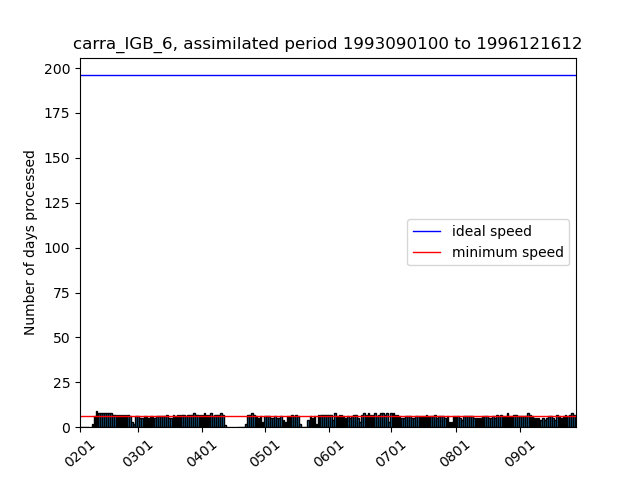
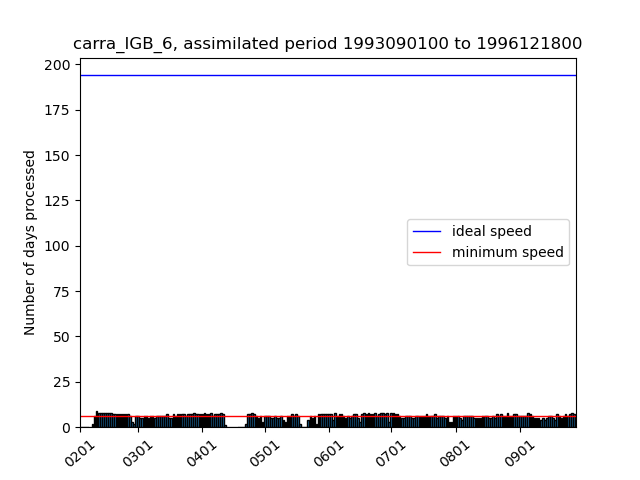
update repo

diff --git a/current_state_sims.html b/current_state_sims.html
@@ -2,18 +2,18 @@
 <h1>Estimated completion dates and simulation speeds</h1>
 <p>Stream (production) completion date based on 30d (7d) moving avg speed</p>
 <p><a href="https://docs.google.com/document/d/1zDKAxuEXYnWWYzT3SZnZwY5WW8nodUMeYRjAGz46coc/edit#">Details of the calculation of the completion dates</a></p>
-<p>Last update: 2021/09/29 00:41:31 UTC</p>
+<p>Last update: 2021/09/29 06:47:08 UTC</p>
 <p>Total progress CARRA: 99.33% <a href="https://hirlam.org/portal/CARRA/Progress/GanntChart_CARRA.html"> (see detailed progress meter in Gantt chart) </a></p>
 <p>Total progress PANARCTIC: 91.67% </p>
 <p><a href="https://hirlam.org/portal/CARRA/Progress/waiting_times.html"> Queue waiting times for all streams</a></p>
 <p><a href="https://hirlam.org/portal/CARRA/Progress/mars_status.html"> MARS archive throughput </a></p>
 <html><table border="1"><tr><th>expId</th><th>Current assimilated date</th><th>End date of stream </th><th> Completion date</th><th> Avg. throughput (7d) </th> <th>Avg. throughput (30d) </th> <th> Remarks</tr>
-<tr bgcolor="#FFFF00"><td>carra_NE_3</td><td>2021063000</td><td>2021063021</td><td>2021092900</td><td>(0.0) days/day</td><td>(3.57) days/day</td><td>Inactive the past week</tr>
+<tr bgcolor="#FFFF00"><td>carra_NE_3</td><td>2021063000</td><td>2021063021</td><td>2021092906</td><td>(0.0) days/day</td><td>(3.57) days/day</td><td>Inactive the past week</tr>
 <tr bgcolor="#33FF38"><td>carra_NE_4</td><td>1992090100</td><td>1992083021</td><td>Finished on 20210824</td><td>(0.0) days/day</td><td>(0.0) days/day</td><td>Stream finished</tr>
 <tr bgcolor="#33FF38"><td>carra_NE_5</td><td>1994090100</td><td>1994083021</td><td>Finished on 20210824</td><td>(0.0) days/day</td><td>(0.0) days/day</td><td>Stream finished</tr>
-<tr bgcolor="#33FF38"><td>carra_NE_6</td><td>1997070100</td><td>1997063021</td><td>2021092818</td><td>(0.0) days/day</td><td>(3.87) days/day</td><td>Stream finished</tr>
-<tr bgcolor="#FFFF00"><td>carra_IGB_3</td><td>2021063000</td><td>2021063021</td><td>2021092900</td><td>(0.0) days/day</td><td>(3.43) days/day</td><td>Inactive the past week</tr>
-<tr bgcolor="#33FF38"><td>carra_IGB_4</td><td>1992090100</td><td>1992083021</td><td>2021092722</td><td>(0.0) days/day</td><td>(1.8) days/day</td><td>Stream finished</tr>
-<tr bgcolor="#33FF38"><td>carra_IGB_5</td><td>1994090100</td><td>1994083021</td><td>2021092815</td><td>(3.14) days/day</td><td>(5.2) days/day</td><td>Stream finished</tr>
-<tr bgcolor="#FFA500"><td>carra_IGB_6</td><td>1996121612</td><td>1997063021</td><td>2021110110</td><td>(6.57) days/day</td><td>(5.87) days/day</td><td>Completion date after project end (20211031)</tr>
-<tr bgcolor="#FFFFFF"><td>carra_pan</td><td>2018080515</td><td>2018090100</td><td>2021100623</td><td>(3.57) days/day</td><td>(3.4) days/day</td><td></tr>
+<tr bgcolor="#33FF38"><td>carra_NE_6</td><td>1997070100</td><td>1997063021</td><td>2021092900</td><td>(0.0) days/day</td><td>(3.87) days/day</td><td>Stream finished</tr>
+<tr bgcolor="#FFFF00"><td>carra_IGB_3</td><td>2021063000</td><td>2021063021</td><td>2021092906</td><td>(0.0) days/day</td><td>(3.43) days/day</td><td>Inactive the past week</tr>
+<tr bgcolor="#33FF38"><td>carra_IGB_4</td><td>1992090100</td><td>1992083021</td><td>2021092804</td><td>(0.0) days/day</td><td>(1.8) days/day</td><td>Stream finished</tr>
+<tr bgcolor="#33FF38"><td>carra_IGB_5</td><td>1994090100</td><td>1994083021</td><td>2021092821</td><td>(3.14) days/day</td><td>(5.2) days/day</td><td>Stream finished</tr>
+<tr bgcolor="#FFA500"><td>carra_IGB_6</td><td>1996121800</td><td>1997063021</td><td>2021110103</td><td>(6.71) days/day</td><td>(5.9) days/day</td><td>Completion date after project end (20211031)</tr>
+<tr bgcolor="#FFFFFF"><td>carra_pan</td><td>2018080606</td><td>2018090100</td><td>2021100620</td><td>(3.71) days/day</td><td>(3.43) days/day</td><td></tr>
